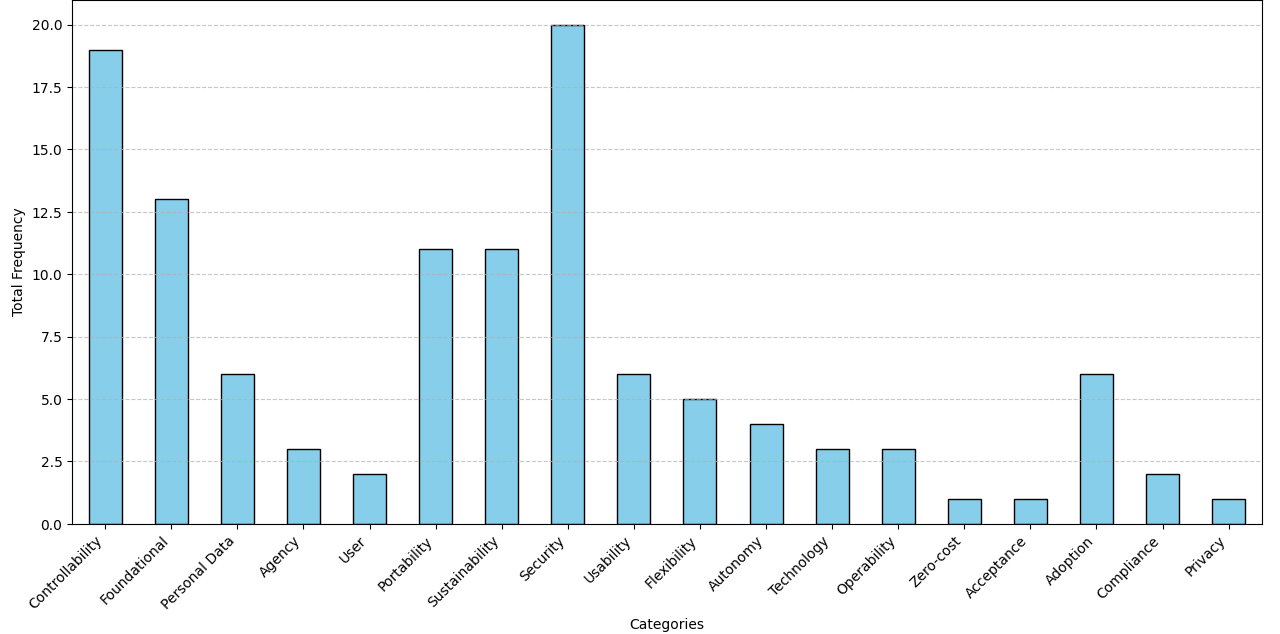
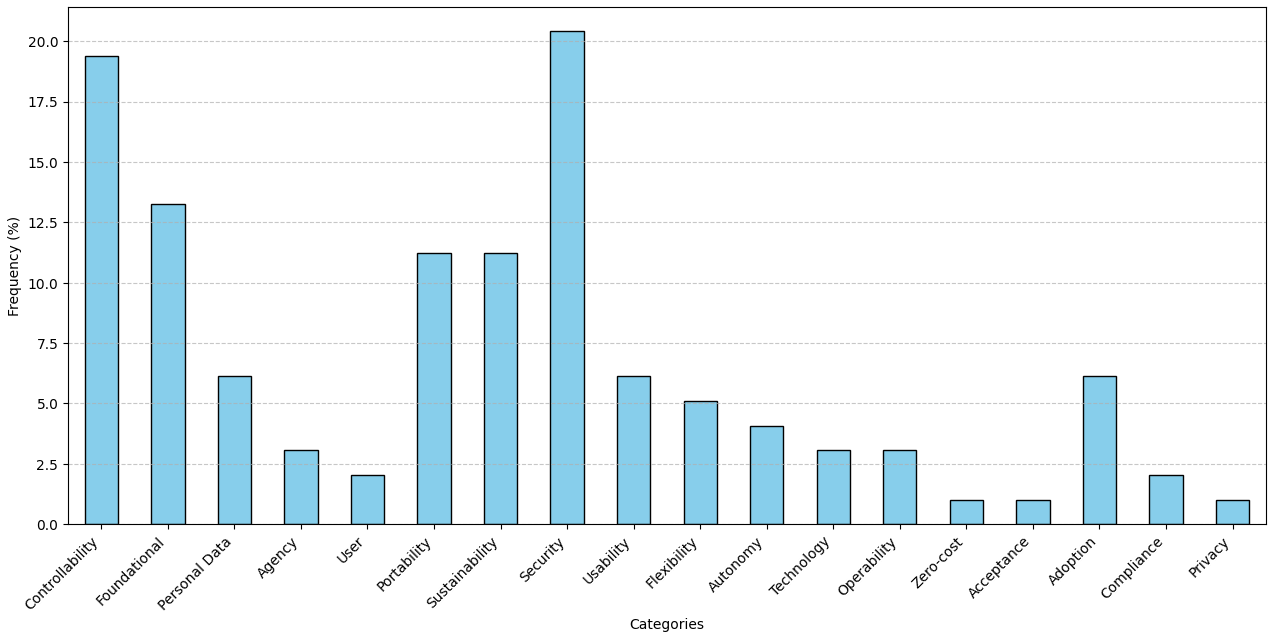
.

diff --git a/definition/program/clustering/graphs/CategoryFrequency.py b/definition/program/clustering/graphs/CategoryFrequency.py
@@ -30,11 +30,13 @@ categories = [
 
 df = pd.DataFrame(data, index=categories)
 
+df_normalized = (df / 98) * 100
+
 # Creating the Grouped Bar Chart
-df.sum(axis=1).plot(kind="bar", figsize=(12, 6), color="skyblue", edgecolor="black")
+df_normalized.sum(axis=1).plot(kind="bar", figsize=(12, 6), color="skyblue", edgecolor="black")
 plt.title("")
 plt.xlabel("Categories")
-plt.ylabel("Total Frequency")
+plt.ylabel("Frequency (%)")
 plt.xticks(rotation=45, ha="right")
 plt.grid(axis="y", linestyle="--", alpha=0.7)
 plt.show()

diff --git a/definition/Definition.md b/definition/Definition.md
@@ -74,7 +74,7 @@ This approach aligns our list with established terminology in the field of ident
 ![Casual Loop Diagram Properties (Local)](/definition/images/casual_loop_diagram/Casual_loop_diagram.png)
 *Figure 2: Casual loop diagram of the set of properties, defined by different authors.*
 
-The merging process has shrinked the list by 34%, leading to a total of 34 principles. The new list, presented in [Table 2](https://cristianlepore.github.io/Self-Sovereign-Identity/definition/tables/principles_semplification/Principles_semplification2.html), shows that Allen's principles are, on average, shared by 13 out of 17 authors, while the remaining 24 principles are shared by fewer than 2 authors on average.
+The merging process has collapsed some of the principles naming together and shrinked the list by 34%, leading to a total of 34 principles. The new list, presented in [Table 2](https://cristianlepore.github.io/Self-Sovereign-Identity/definition/tables/principles_semplification/Principles_semplification2.html), shows that Allen's principles are, on average, shared by 13 out of 17 authors, while the remaining 24 principles are shared by fewer than 2 authors on average.
 
 [Click to view the table 2.](https://cristianlepore.github.io/Self-Sovereign-Identity/definition/tables/principles_semplification/Principles_semplification2.html) *Comparison of identified properties grouping from various sources.*
 
@@ -85,33 +85,31 @@ The merging process has shrinked the list by 34%, leading to a total of 34 princ
 
 ### 1.3.3 Selection
 
-Figure 3 puts into perspective the list of principles (horizontal axis) with their occurrence by authors (vertical axis). It represents the number of papers citing each principle. The first ten principles on the left originate from Allen’s initial definition, while the remaining ones are derived from later works. We notice that the original set of principles from Allen is cited by at least 60% of authors, while the extended principles are referenced by significantly fewer authors on average. One possible interpretation is that Allen’s principles have been established for a longer time. Additionally, the chart reveals that 19 out of the 24 extended principles, were cited by fewer than five authors. Notably, most of these 19 principles were, on average, shared only two authors.
+Figure 3 puts into perspective the list of principles (horizontal axis) with their occurrence by authors (vertical axis). It represents the number of papers citing each principle. The first ten principles are cited by at least 60% of authors, while the extended principles are referenced by significantly fewer authors on average. A possible interpretation is that Allen’s principles have been established for a longer time. Additionally, the chart reveals that 19 out of the 24 extended principles, were cited by fewer than five authors. Notably, most of these 19 principles were, on average, shared only two authors.
 
 ![Principles selection](/definition/images/principles_selection/Principles_selection.png)
 *Figure 3: The graph shows the distribution of authors by property, indicating how many adopted each corresponding principle.*
 
-We used the findings to extract a subset of principles for SSI, and applying a heuristic based on the number of citations; namely, we selected principles cited by at least the 25% of the authors. This heuristic of 25% is a typified strategy that aids in making decisions efficiently by relying on practical rules.[^heuristic] Thus, the final list includes principles that surpass the red threshold in Figure 3. The final list is reported in [Table 3](https://cristianlepore.github.io/Self-Sovereign-Identity/definition/tables/principles_semplification/Principles_semplification1.html), and accounts for 15 principles.
+We used this finding to extract a subset of principles for SSI, and applying a heuristic based on the number of citations; namely, we selected principles cited by at least the 25% of the authors. This heuristic of 25% is a typified strategy that aids in making decisions efficiently by relying on practical rules.[^heuristic] Thus, the final list includes principles that surpass the red threshold in Figure 3. The final list is reported in [Table 3](https://cristianlepore.github.io/Self-Sovereign-Identity/definition/tables/principles_semplification/Principles_semplification1.html), and accounts for 15 principles - 10 from Allen plus five. Note that the merging process has collapsed some of their names within the same cell.
 
 [Click to view the table 3.](https://cristianlepore.github.io/Self-Sovereign-Identity/definition/tables/principles_semplification/Principles_semplification1.html) *Our final list of properties and their namings.*
 
-### 1.3.3 Clustering
+### 1.3.4 Clustering
 
-A category is useful to "*illuminate a relationship between the subjects and objects of knowledge.*"[^mahalakshmi] For this reason, we aimed to provide a categorization of properties that illuminates the relationship between properties and Self-Sovereign Identity. However, we aim to cluster principles by using the existing labelling for properties. Some of the above mentioned works have already clustered principles, as discussed in [Related Works](#12-related-works), but they lack to recon the methodology for their systematic categorization. Note that for the clustering, we based our exercise on the names of properties and categories from other authors, rather than on their content defintiion.
+A category is useful to "*illuminate a relationship between the subjects and objects of knowledge.*"[^mahalakshmi] For this reason, we aimed to provide a categorization of properties that illuminates the relationship between properties and Self-Sovereign Identity. However, we aim to cluster principles using the existing labeling from the literature, and we do not focus on the defintion of classes. Some of the above-mentioned works have already clustered principles, as discussed in [Related Works](#12-related-works), but we aim to combine past exercises from various authors.
 
-Instrumental to this exercise, is [Table 4](https://cristianlepore.github.io/Self-Sovereign-Identity/definition/tables/principles_classification/Principles_classification1), which gathers information about past categorizations from authors. Each cell of the Table corresponds to a name of the category, while principles are in the first column.
+Instrumental to this exercise is [Table 4](https://cristianlepore.github.io/Self-Sovereign-Identity/definition/tables/principles_classification/Principles_classification1), which gathers information about past categorizations from authors. Each cell of the table corresponds to the name of a category, while principles are listed in the first column.
 
 [Click to view the table 4 with 15 properties only.](https://cristianlepore.github.io/Self-Sovereign-Identity/definition/tables/principles_classification/Principles_classification1) *The categorization of principles provided by various authors about the 15 skimmed principles.*
 [Table 4 with the complete list of 34 properties.](https://cristianlepore.github.io/Self-Sovereign-Identity/definition/tables/principles_classification/Principles_classification2) *The categorization of principles provided by various authors concerning the total of 34 principles.*
 
-Table 4 shows how heterogeneous is the categorization of principles from various authors. Indeed, it does not exist two works with the same exact list of classes (or categories). However, Table 4 breakdowns classes by author, but they are not easily comparable in the broader picture. Hence, as first step we wanted to analyze rthe information about classes.
+Table 4 breaks down classes by author and shows how heterogeneous the categorization of principles from various authors is. Indeed, no two works have the exact same list of classes (or categories). However, their content analysis is not straightforward. To clarify the conveyed information, we analyze five information from the list of fifteen principles. We aim to address, for each class:
+1. How many principles overall pertain to that class?
+2. How many contributions cite that class?
+3. How many unique principles for each author?
+4. How many unique authors?
 
-We aim to check five types of information:
-1. How many principles pertain to each class?
-2. How many authors for each principle?
-3. How many different principles for each class?
-4. How many authors for each principle?
-
-While analysing this information, we refer to the list of 15 principles, as result of the filtering from the previous step.
+Questions 1 and 2 are addressed by Figure 4. Questions 3 and 4 are addressed in Figure 5.
 
 
 
